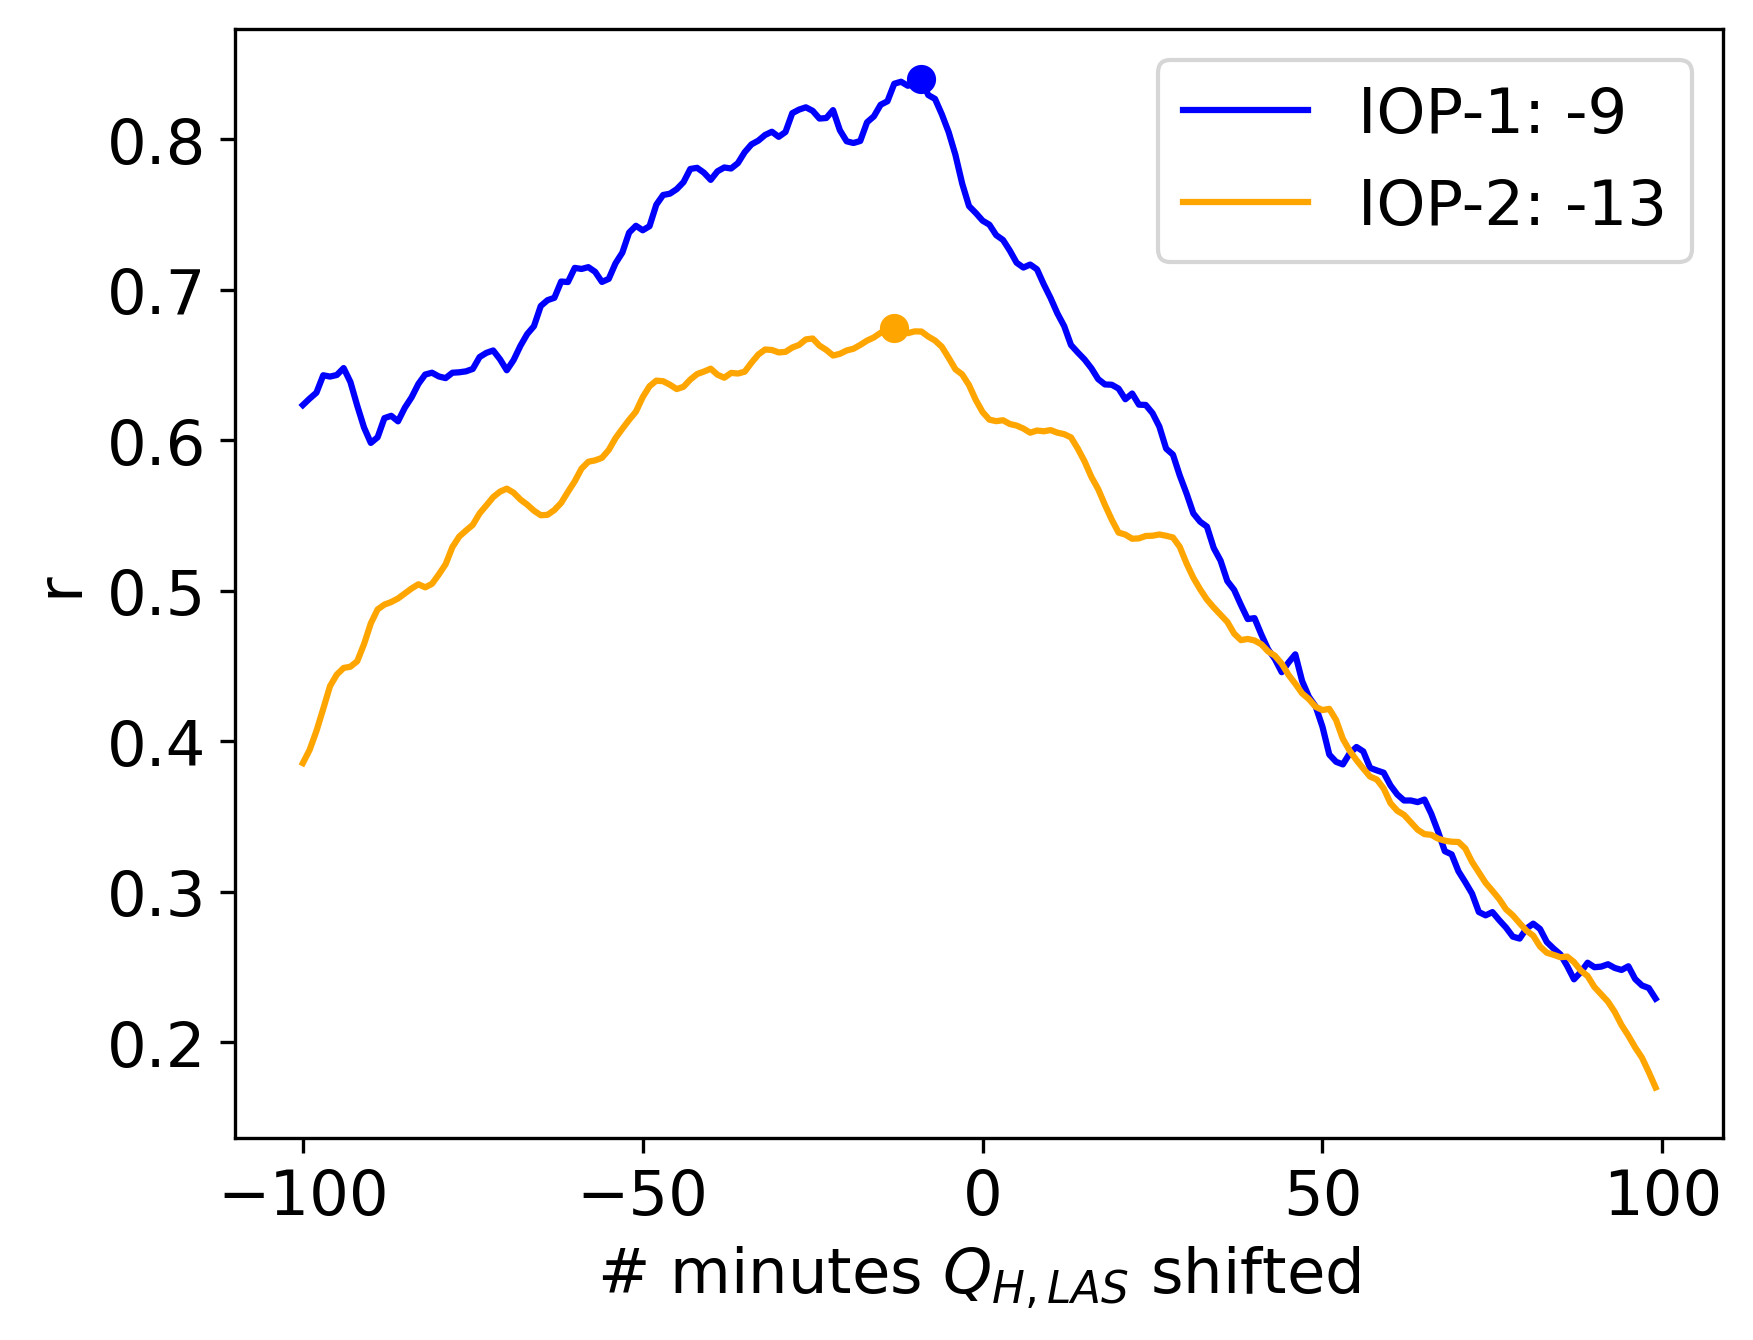
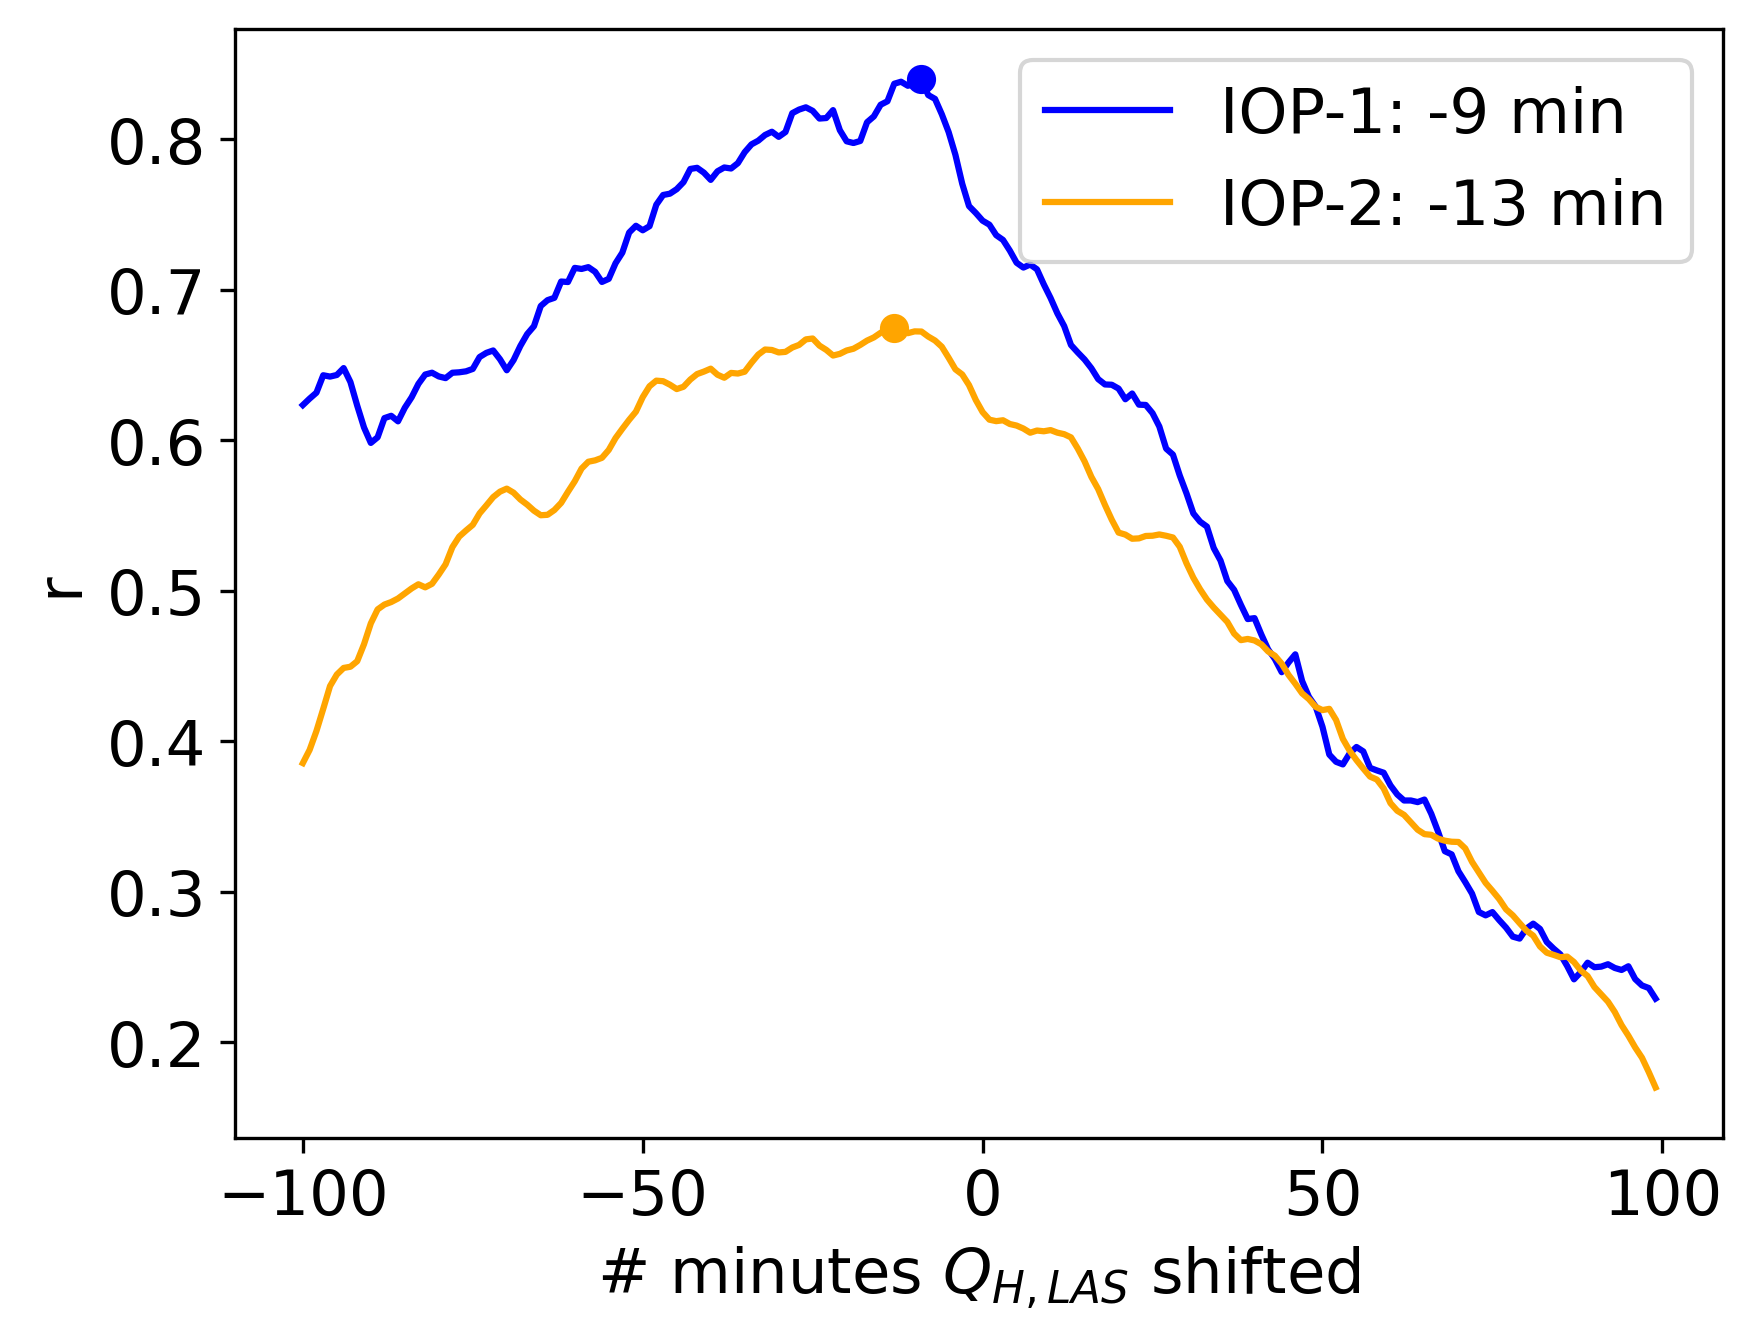
edit legend

Changed region(s): [[0.5853, 0.0612, 0.9549, 0.1836]]

diff --git a/scint_plots/line_time_series/main_time_series_lag.py b/scint_plots/line_time_series/main_time_series_lag.py
@@ -46,8 +46,8 @@ for DOY in DOY_list:
 index_126 = np.where(DOY_dict[2016126]['r_list'] == max(DOY_dict[2016126]['r_list']))[0][0]
 index_123 = np.where(DOY_dict[2016123]['r_list'] == max(DOY_dict[2016123]['r_list']))[0][0]
 
-plt.plot(DOY_dict[2016123]['displace_list'], DOY_dict[2016123]['r_list'], label='IOP-1: ' + str(DOY_dict[2016123]['displace_list'][index_123]), color='blue')
-plt.plot(DOY_dict[2016126]['displace_list'], DOY_dict[2016126]['r_list'], label='IOP-2: ' + str(DOY_dict[2016126]['displace_list'][index_126]), color='orange')
+plt.plot(DOY_dict[2016123]['displace_list'], DOY_dict[2016123]['r_list'], label='IOP-1: ' + str(DOY_dict[2016123]['displace_list'][index_123]) + ' min', color='blue')
+plt.plot(DOY_dict[2016126]['displace_list'], DOY_dict[2016126]['r_list'], label='IOP-2: ' + str(DOY_dict[2016126]['displace_list'][index_126]) + ' min', color='orange')
 
 plt.scatter(DOY_dict[2016123]['displace_list'][index_123], DOY_dict[2016123]['r_list'][index_123], color='blue')
 plt.scatter(DOY_dict[2016126]['displace_list'][index_126], DOY_dict[2016126]['r_list'][index_126], color='orange')
